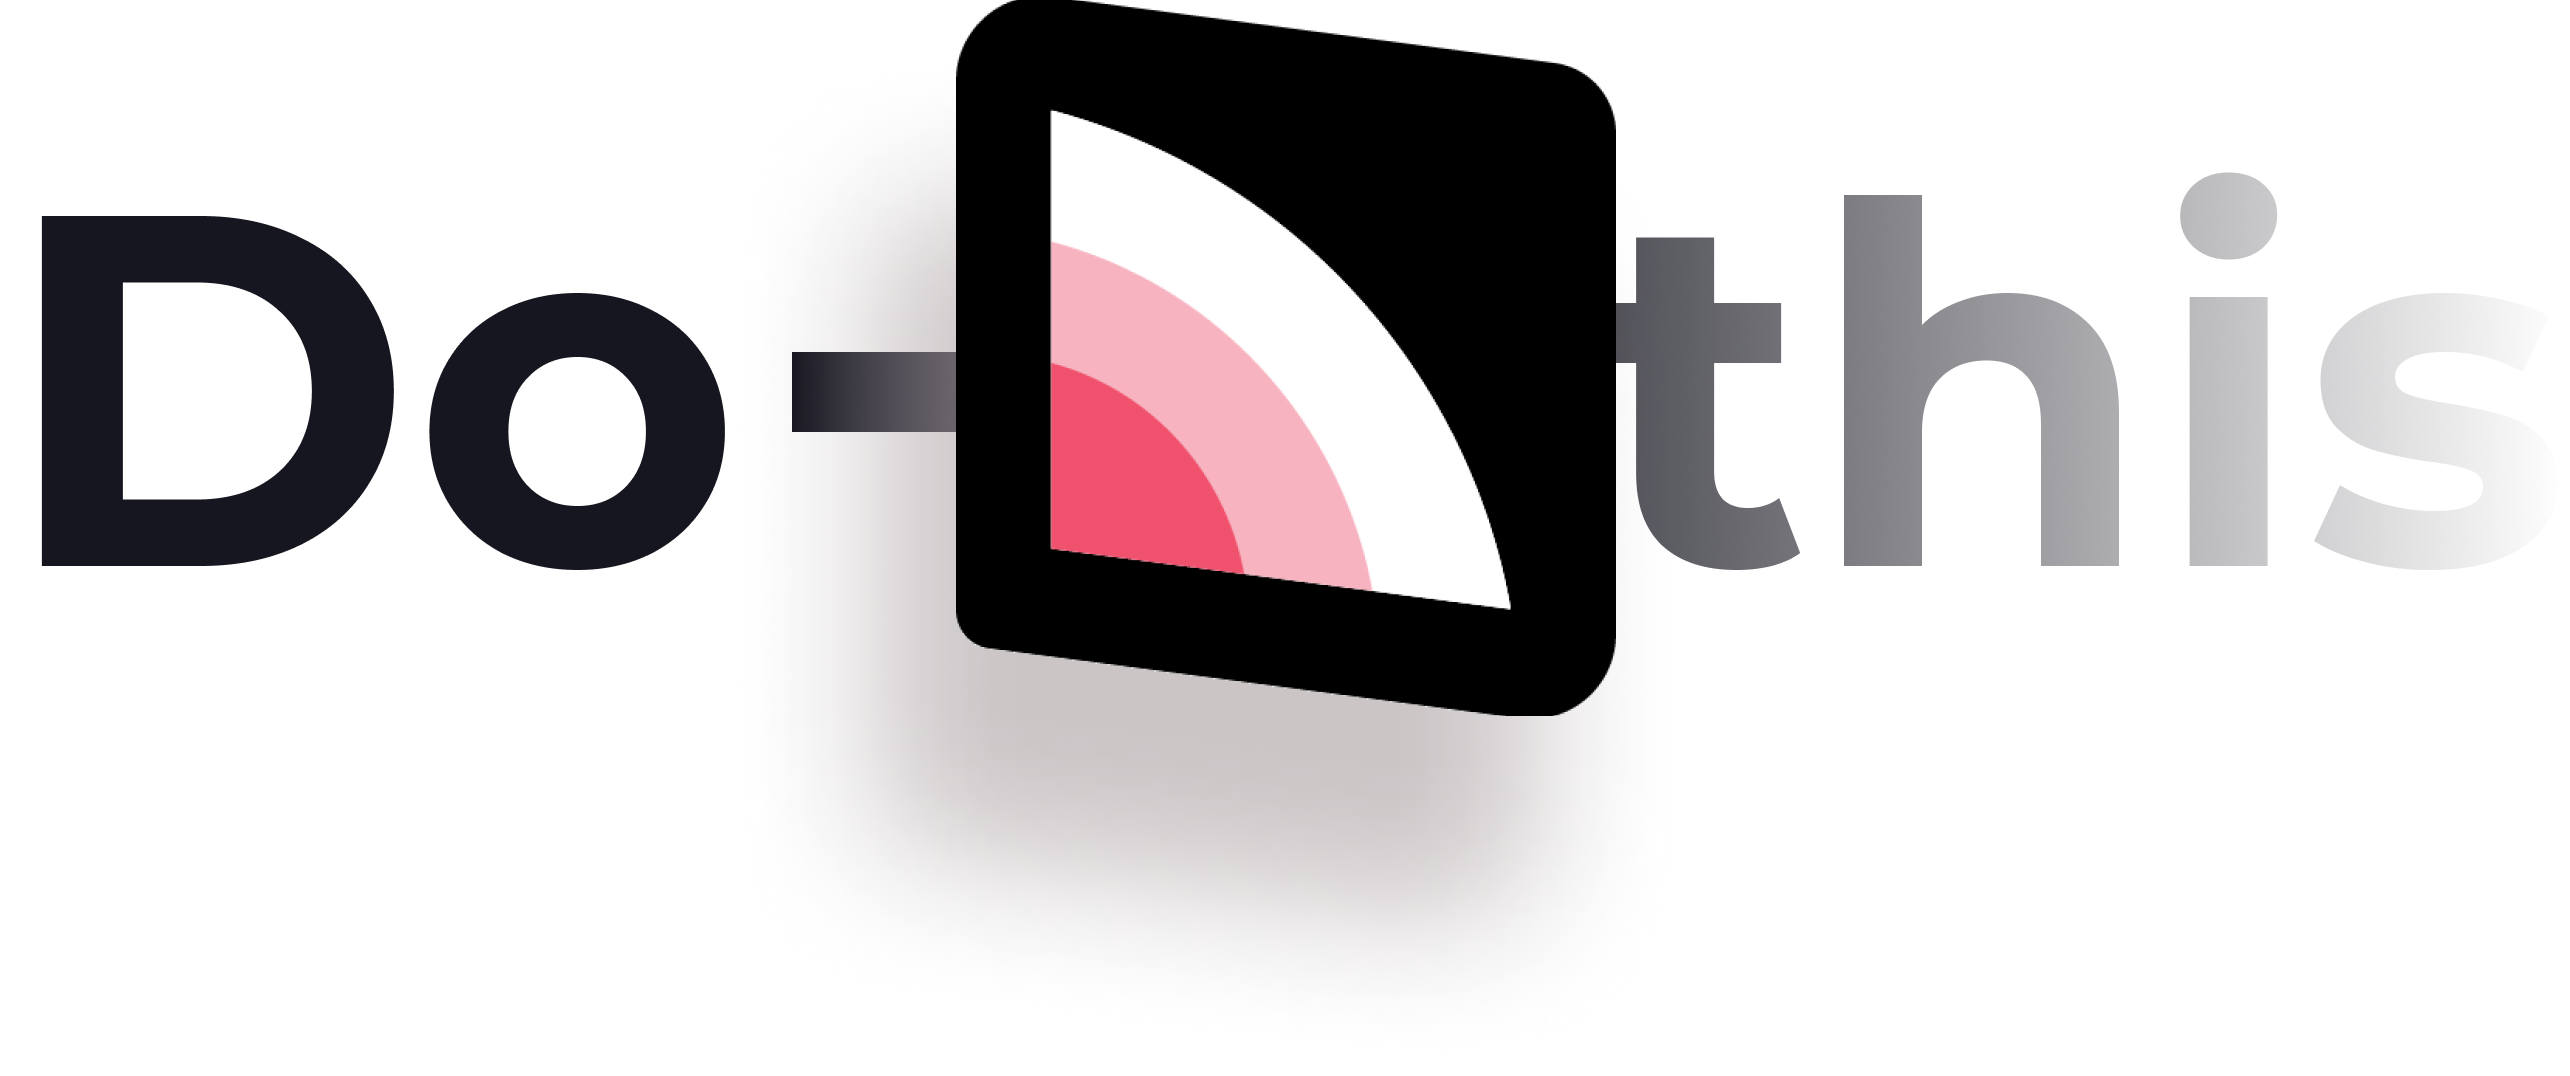
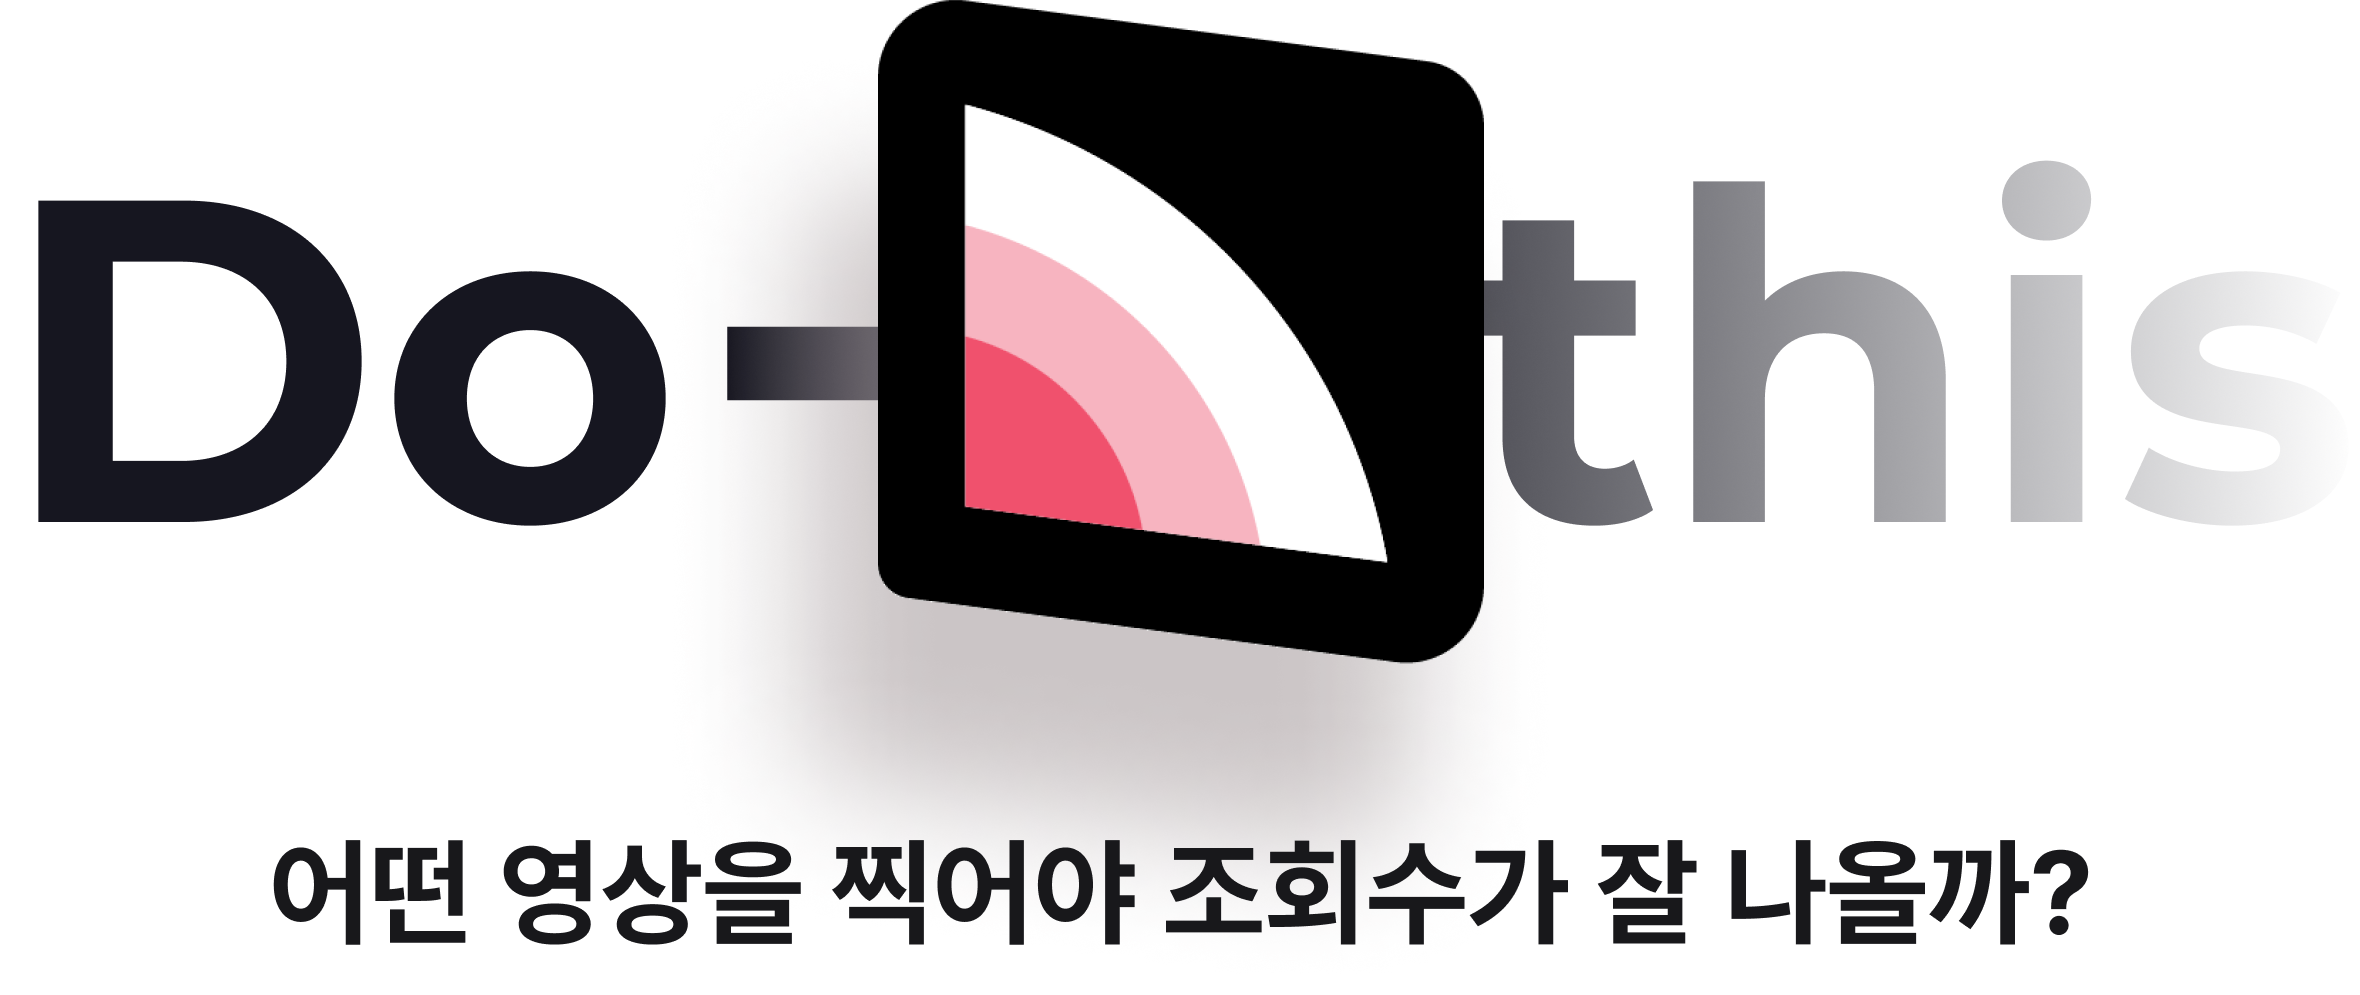
feat: 구글 태그 연결

diff --git a/apps/dashboard-web/src/components/Landing/page1/index.tsx b/apps/dashboard-web/src/components/Landing/page1/index.tsx
@@ -4,13 +4,13 @@ import styled from 'styled-components';
 import Topbar from './topbar';
 
 const Background = styled.div`
-  width: 100%;
+  width: 100vw;
   height: 1080px;
   background-color: white;
 
   display: flex;
   justify-content: center;
-  position: relative;
+  align-items: center;
 `;
 
 const Main = styled.main`
@@ -40,9 +40,6 @@ const Buttons = styled.div`
 `;
 
 const Texts = styled.div`
-  position: absolute;
-  top: 678px;
-
   display: flex;
   flex-direction: column;
   align-items: center;
@@ -57,19 +54,28 @@ const Texts = styled.div`
   }
 `;
 
+const ImgBox = styled.div`
+  @media (max-width: 1280px) {
+    width: 1180px;
+    height: 490px;
+  }
+`;
+
 export default function Page1() {
   return (
     <Background>
       <Topbar />
       <Main>
-        <Image
-          src="/images/landing/page1.png"
-          width={1285}
-          height={358}
-          alt={'page1 image'}
-        />
+        <ImgBox>
+          <Image
+            src="/images/landing/page1.png"
+            width={1285}
+            height={358}
+            sizes="(max-width:1285px) 100%"
+            alt={'page1 image'}
+          />
+        </ImgBox>
         <Texts>
-          <h1>어떤 영상을 찍어야 조회수가 잘 나올까?</h1>
           <h3>
             콘텐츠 기획부터 키워드 추천, 트렌드 분석까지 바로 지금 Do this
             하세요

diff --git a/apps/dashboard-web/src/components/Analytics/index.tsx b/apps/dashboard-web/src/components/Analytics/index.tsx
@@ -1,0 +1,27 @@
+'use client';
+
+import { usePathname, useSearchParams } from 'next/navigation';
+import Script from 'next/script';
+
+export default function Analytics() {
+  const pathname = usePathname();
+  const searchParams = useSearchParams();
+
+  return (
+    <>
+      <Script
+        id="gtm-script"
+        strategy="afterInteractive"
+        dangerouslySetInnerHTML={{
+          __html: `
+          (function(w,d,s,l,i){w[l]=w[l]||[];w[l].push({'gtm.start':
+          new Date().getTime(),event:'gtm.js'});var f=d.getElementsByTagName(s)[0],
+          j=d.createElement(s),dl=l!='dataLayer'?'&l='+l:'';j.async=true;j.src=
+          'https://www.googletagmanager.com/gtm.js?id='+i+dl;f.parentNode.insertBefore(j,f);
+          })(window,document,'script','dataLayer','GTM-TD3F5QV');
+  `,
+        }}
+      />
+    </>
+  );
+}

diff --git a/apps/dashboard-web/src/app/layout.tsx b/apps/dashboard-web/src/app/layout.tsx
@@ -5,6 +5,8 @@ import localFont from '@next/font/local';
 import clsx from 'clsx';
 import type react from 'react';
 
+import Analytics from '@/components/Analytics';
+
 import StyledComponentsRegistry from '../constants/registry';
 import ClientContext from './ClientContext';
 
@@ -22,6 +24,7 @@ export default function RootLayout({ children }: Props) {
   return (
     <html lang="ko" className={clsx(font.className, 'text-[16px]')}>
       <body suppressHydrationWarning={true}>
+        <Analytics />
         <ClientContext>
           <StyledComponentsRegistry>
             <div>{children}</div>

diff --git a/apps/dashboard-web/src/components/Landing/page4/index.tsx b/apps/dashboard-web/src/components/Landing/page4/index.tsx
@@ -50,8 +50,12 @@ const MoreButton = styled.button`
 `;
 
 const ImageBox = styled.div`
-  width: 621px;
-  height: 450px;
+  width: 700px;
+  height: 500px;
+
+  display: flex;
+  justify-content: center;
+  align-items: center;
 `;
 
 export default function Page4() {

diff --git a/apps/dashboard-web/src/components/Landing/page3/index.tsx b/apps/dashboard-web/src/components/Landing/page3/index.tsx
@@ -50,7 +50,12 @@ const MoreButton = styled.button`
 `;
 
 const ImageBox = styled.div`
-  height: 431px;
+  width: 900px;
+  height: 480px;
+
+  display: flex;
+  justify-content: center;
+  align-items: center;
 `;
 
 export default function Page3() {

diff --git a/apps/dashboard-web/src/components/Landing/page5/index.tsx b/apps/dashboard-web/src/components/Landing/page5/index.tsx
@@ -36,7 +36,7 @@ const MoreButton = styled.button`
 
 const Container = styled.div`
   border-radius: 30px;
-  background-color: black;
+  background-color: rgba(45, 45, 45, 1);
   display: flex;
   flex-direction: column;
   justify-content: center;
